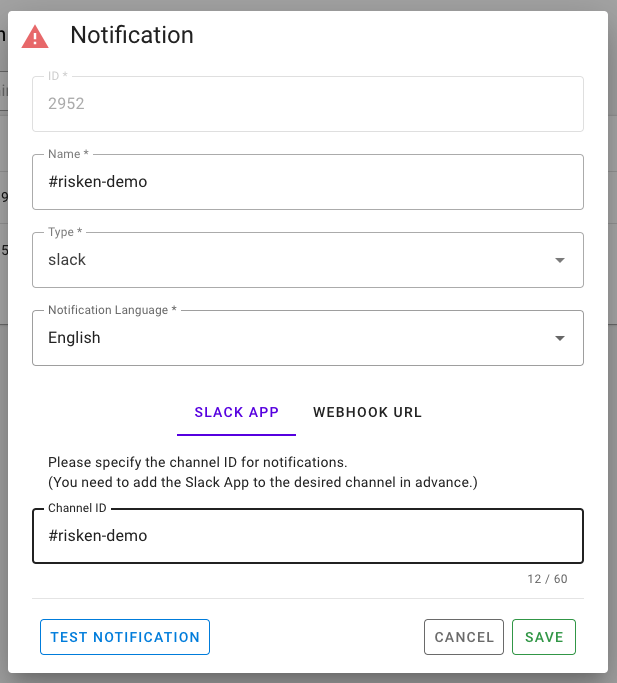
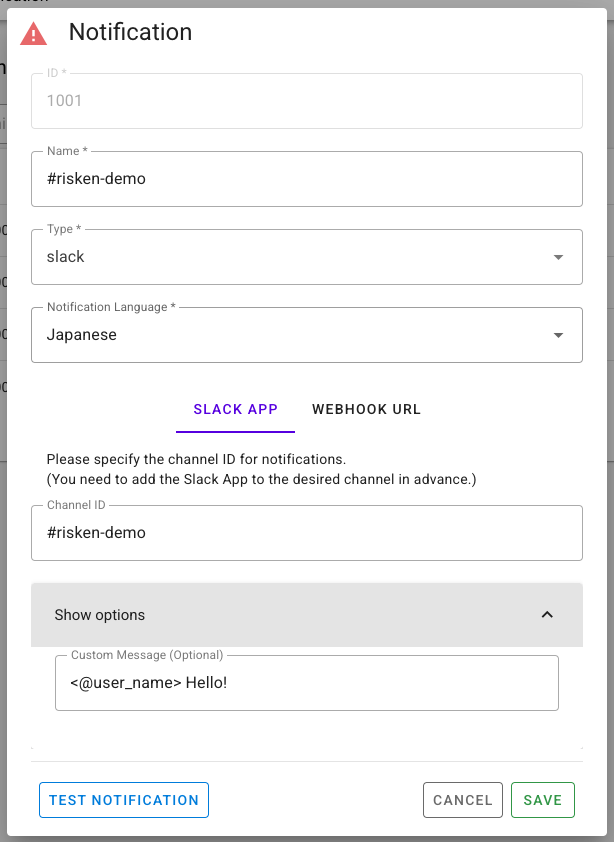
fix: notify settings

Changed region(s): [[0.0, 0.0, 1.0, 1.0], [0.4951, 0.4612, 0.6808, 0.4919], [0.0, 0.123, 0.0309, 0.1537]]

diff --git a/docs/risken/alert.en.md b/docs/risken/alert.en.md
@@ -43,20 +43,29 @@ In RISKEN, we have implemented a feature that generates alerts and sends notific
 
 #### Slack App
 - **Channel ID**: Specify the destination channel ID or channel name (however, if the channel name is used, notifications may not be sent if Slack changes it).
-- ![alert_notification.png](/img/risken/alert_notification_slackapp.png){style="width:600px"}
+- **Options**
+    - **Custom Message**: You can customize the notification message.
+        - To insert a mention, specify `<@user_name>` or `<!here>`, etc.
+        - If not entered, the default message is `@xxxx Alert occurred`.
+            - The `@xxxx` part changes according to the set Severity.
+                - `High`: @channel
+                - `Medium`: @here
+                - `Low`: No mention
+- ![alert_notification.png](/img/risken/alert_notification_slackapp.png){style="width:400px"}
 
 #### WebhookURL
 - **Webhook URL**: Specify the Webhook URL created with [Incomming Webhook](https://api.slack.com/messaging/webhooks)
     - Notifications will be sent with the channel/icon/name specified in Incomming Webhook
-- **Show Options**: Check to display option settings
-- **Custom Message**: Override the default notification message
-    - Default is `@xxxx Alert occurred`
-    - `@xxxx` changes depending on the severity set
-        - `High`: @channel
-        - `Medium`: @here
-        - `Low`: No mention
+- **Options**
+    - **Custom Message**: You can customize the notification message.
+        - To insert a mention, specify `<@user_name>` or `<!here>`, etc.
+        - If not entered, the default message is `@xxxx Alert occurred`.
+            - The `@xxxx` part changes according to the set Severity.
+                - `High`: @channel
+                - `Medium`: @here
+                - `Low`: No mention
 - **Channel** (Depricated): Specify the channel to receive the notification. Currently a deprecated setting.
-- ![alert_notification.png](/img/risken/alert_notification_webhook.png){style="width:600px"}
+- ![alert_notification.png](/img/risken/alert_notification_webhook.png){style="width:400px"}
 
 ### Setting up Alert Conditions
 1. Click on `Alert > Condition` on the left menu
